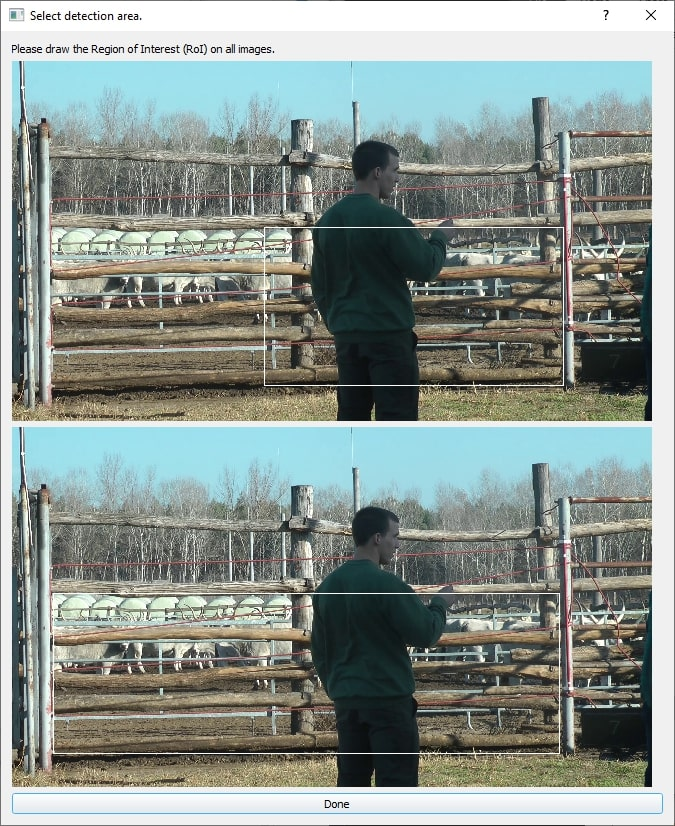
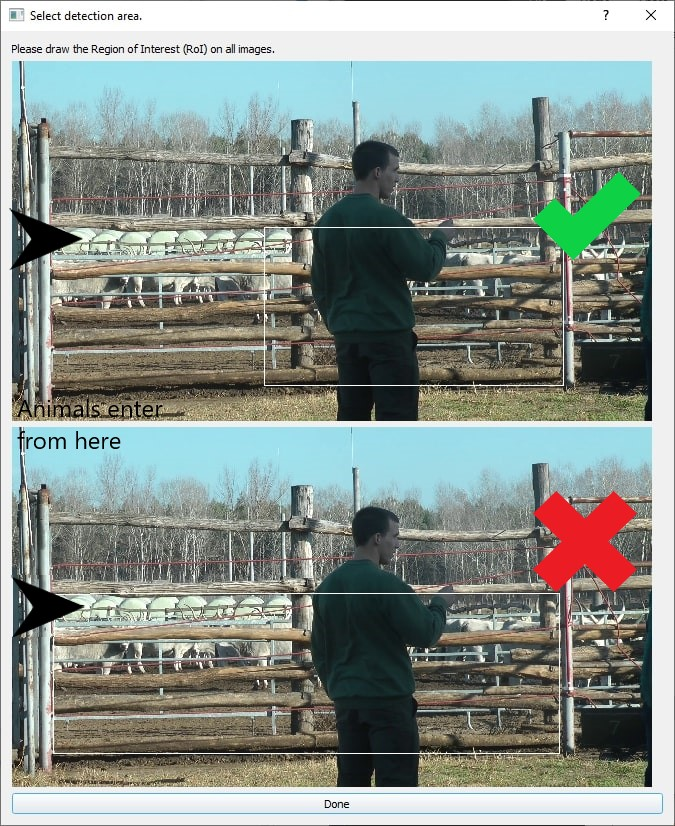
User Manual clarified on detection area

diff --git a/Manual/User Manual.tex b/Manual/User Manual.tex
@@ -511,7 +511,7 @@ You can access this feature by clicking the \textit{Automatic Detection} button.
 
 You first task in the wizard is to select the detection area. To achieve higher speeds, the software runs motion detection in this area to pic out frames it needs to investigate further. You can select the area by drawing a rectangle on the images with your mouse. 
 
-\textbf{NOTE: The detection area should encompass the full height of the animals, and roughly 50\% of the length of the area where they are visible. This ensures, that once an animal enters the detection area, they are already fully visible in the image. See examples below.}
+\textbf{NOTE: The detection area should encompass the full height of the animals, and roughly 50\% of the length of the area where they are visible. The area should be on the opposide side from where animals enter! This ensures that once an animal enters the detection area, they are already fully visible in the image. See examples below.}
 
 \begin{figure}[H]
 	\centering
@@ -520,7 +520,7 @@ You first task in the wizard is to select the detection area. To achieve higher 
 		\includegraphics[width=0.5\textwidth]{./images/DetArea.jpg}
 	\end{subfigure}
 	\caption[]
-	{\small  Setting the detection area.}
+	{\small  Setting the detection area: Top image is correct, BOTTOM MAGE SHOWS INCORRECT AREA!}
 \end{figure} 
 
 \subsection{Detection}
